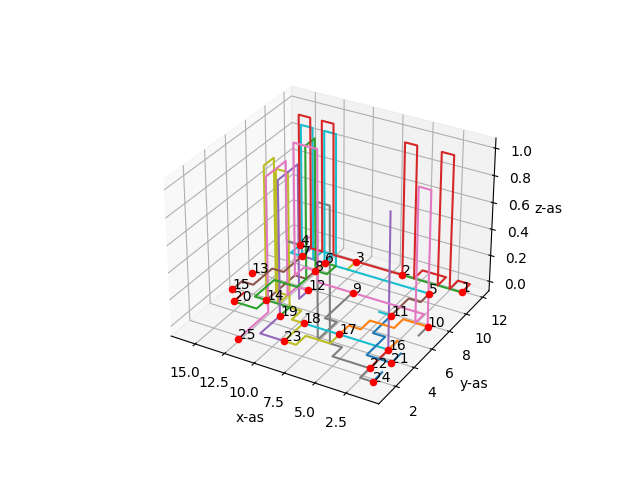
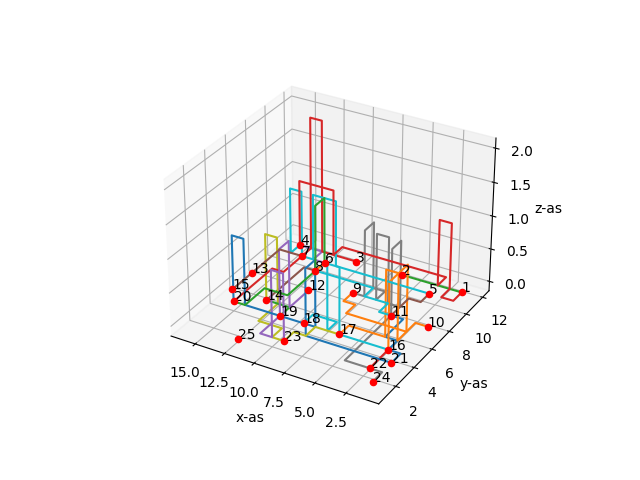
Working on making the algoritm better

diff --git a/code/algorithms/steered_random.py b/code/algorithms/steered_random.py
@@ -28,7 +28,7 @@ class steered_random_routes:
         
         return [i[1] for i in nets_with_length]
 
-    def run(self):
+    def run(self, tries):
         """
         Algorithm that takes in a grid object as input
         First selects which nets should be layed down first
@@ -38,42 +38,51 @@ class steered_random_routes:
 
         # order the nets by expected size
         ordered_nets = self.select_shortest_nets(self.grid.netlist)
+        succeeded_nets = []
 
-        # solve puzzle net by net
-        for net in ordered_nets:
+        # try given amount of times
+        while tries > 0:
 
-            # select this net as current net in the grid
-            self.grid.choose_net(net)
-            
-            # run until net is finished
-            while not net.finished:
-                directions_to_end = self.grid.get_directions_to_end()
+            # solve puzzle net by net
+            for net in ordered_nets:
 
-                possible_directions = self.grid.get_directions()
+                # select this net as current net in the grid
+                self.grid.choose_net(net)
 
-                # if net is stuck, delete net and break
-                if not possible_directions:
-                    self.grid.delete_net(net, -1)
-                    print("{net} failed")
-                    break
+                # run until net is finished
+                while not net.finished:
+                    directions_to_end = self.grid.get_directions_to_end()
+
+                    possible_directions = self.grid.get_directions()
+
+                    # if net is stuck, delete net and break
+                    if not possible_directions:
+                        print(f"{net} failed")
+                        print(net.show_route_coordinates())
+                        self.grid.delete_net(net, -1)
+                        break
                 
-                # make a list of overlap between possible directions and directions in the right direction
-                optimal_options = [direction for direction in directions_to_end if direction in self.grid.get_directions()]
+                    # make a list of overlap between possible directions and directions in the right direction
+                    optimal_options = [direction for direction in directions_to_end if direction in self.grid.get_directions()]
 
-                # if going in the right direction is not possible, prioritize going up, else pick random possible direction
-                if not optimal_options:
-                    if 'U' in possible_directions:
-                        self.grid.add_to_net('U')
+                    # if going in the right direction is not possible, prioritize going up, else pick random possible direction
+                    if not optimal_options:
+                        if 'U' in possible_directions:
+                            self.grid.add_to_net('U')
+                        else:
+                            self.grid.add_to_net(choice(possible_directions))
+
+                    # prioritize staying as low as possible in the grid
+                    elif 'D' not in optimal_options:
+                        self.grid.add_to_net(choice(optimal_options))
                     else:
-                        self.grid.add_to_net(choice(possible_directions))
-
-                # prioritize staying as low as possible in the grid
-                elif 'D' not in optimal_options:
-                    self.grid.add_to_net(choice(optimal_options))
-                else:
-                    self.grid.add_to_net('D')
+                        self.grid.add_to_net('D')
             
-            self.total_wires_length += net.get_length()
+                self.total_wires_length += net.get_length()
+                succeeded_nets.append(net)
+
+            ordered_nets = [i for i in ordered_nets if i not in succeeded_nets]
+            tries -= 1
 
         total_costs = 300 * self.grid.amount_of_intersections + self.total_wires_length
         self.grid.get_output(total_costs)

diff --git a/code/classes/grid.py b/code/classes/grid.py
@@ -113,17 +113,18 @@ class Grid():
             # save nets into dictionary
             data = [line.rstrip() for line in file]
             for row in data:
-                information = row.split(",")
-                start, end = information[0], information[1]
-                start_location = self.gate_coordinates[start]
-                end_location = self.gate_coordinates[end]
+                if row:
+                    information = row.split(",")
+                    start, end = information[0], information[1]
+                    start_location = self.gate_coordinates[start]
+                    end_location = self.gate_coordinates[end]
 
-                # index the grid with [z][y][x]
-                start_crossing = self.grid[start_location[2]][start_location[1]][start_location[0]]
-                end_crossing = self.grid[end_location[2]][end_location[1]][end_location[0]]
+                    # index the grid with [z][y][x]
+                    start_crossing = self.grid[start_location[2]][start_location[1]][start_location[0]]
+                    end_crossing = self.grid[end_location[2]][end_location[1]][end_location[0]]
 
-                # create net object and save it to grid
-                self.netlist.append(Net(start_crossing, end_crossing))
+                    # create net object and save it to grid
+                    self.netlist.append(Net(start_crossing, end_crossing))
 
         # default setting, can be changed by algorithm
         self.current_net = self.netlist[0]
@@ -254,7 +255,7 @@ class Grid():
         """
 
         if steps > net.get_length() or steps < 0:
-            steps = net.get_length() - 1
+            steps = net.get_length()
         
         # remove the last crossing from the net as many times as is necessary
         while steps > 0:
@@ -359,7 +360,7 @@ class Grid():
         Can be called on the grid to write an outputfile
         """
 
-        with open(f"./data/chip_{self.chip_id}/our_output.csv", 'w') as file:
+        with open(f"./data/outputfiles/chip_{self.chip_id}_net_{self.netlist_id}.csv", 'w') as file:
             output = writer(file)
             output.writerow(["net", "wires"])
 

diff --git a/main.py b/main.py
@@ -4,13 +4,21 @@ from code.algorithms import random, steered_random
 
 if __name__ == "__main__":
     
+    chip_number = 0
+    netlist_number = 2
+
+    printfile = f"./data/chip_{chip_number}/print_{chip_number}.csv"
+    netlistfile = f"./data/chip_{chip_number}/netlist_{netlist_number}.csv"
+    outputfile = f"./data/outputfiles/chip_{chip_number}_net_{netlist_number}.csv"
+
     # create grid object
-    grid = grid.Grid("./data/chip_1/print_1.csv", "./data/chip_1/netlist_4.csv")
+    grid = grid.Grid(printfile, netlistfile)
 
     # Testing random algorithm
     # r = random.Random(grid)
 
+    # Testing steered random algorithm
     steered_random_object = steered_random.steered_random_routes(grid)
-    steered_random_object.run()
+    steered_random_object.run(10)
 
-    vis.visualise("./data/chip_1/print_1.csv", "./data/chip_1/our_output.csv")
+    vis.visualise(printfile, outputfile)

diff --git a/code/classes/crossing.py b/code/classes/crossing.py
@@ -10,7 +10,6 @@ class Crossing():
         self.location = (x_coordinate, y_coordinate, z_coordinate)
         self.directions = ['N', 'S', 'E', 'W', 'U', 'D']
         self.initial_amount_of_directions = 6
-        # self.visited = 0
         self.intersection = False
 
         self.set_directions(grid_size)

diff --git a/PROCESS.md b/PROCESS.md
@@ -30,4 +30,4 @@
 | Name | Start-time | End-time | Description |
 | --- | --- | --- | --- |
 | Birgit | 10:00 | 13:00 | Trying to implement the intersection count in a different way, hoping it'll work better. Writing a new algorithm. |
-| Birgit | 13:45 | | Perfecting new algorithm to work on bigger chips" |
+| Birgit | 13:45 | | Fixing minor errors in the reading of datafiles in the grid object and the visualisation function. Perfecting new algorithm to work on bigger chips. |
